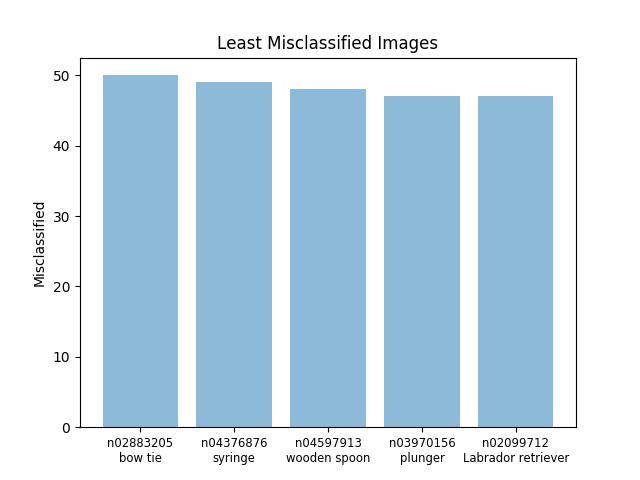
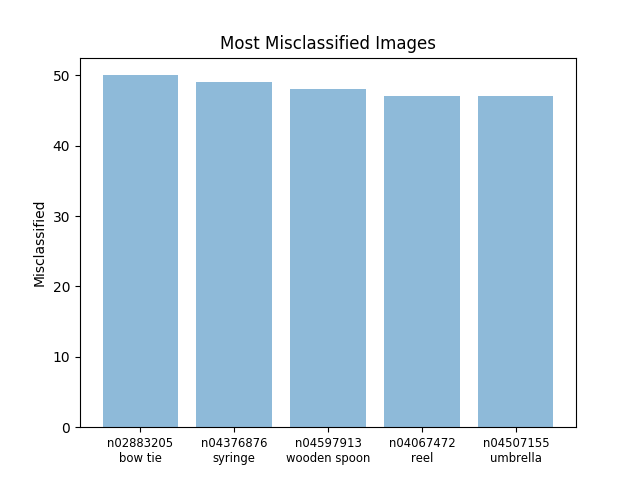
Fix bugs and add plots

Changed region(s): [[0.3438, 0.0625, 0.6875, 0.125], [0.7188, 0.9062, 0.9062, 0.9688], [0.625, 0.9062, 0.7188, 0.9688]]

diff --git a/src/main.py b/src/main.py
@@ -191,7 +191,7 @@ def test(model, criterion, test_loader, epoch, val_losses, val_accs, idx_to_clas
         plt.bar(range(5), [m[1] for m in most], align='center', alpha=0.5)
         plt.xticks(range(5), [m[0] + '\n' + class_to_name[m[0]] for m in most], fontsize='small')
         plt.ylabel('Misclassified')
-        plt.title('Least Misclassified Images')
+        plt.title('Most Misclassified Images')
         filename = '_'.join([args.prefix, args.dataset, args.model, 'err_most.png'])
         plt.savefig(os.path.join(args.results_dir, filename))
 
